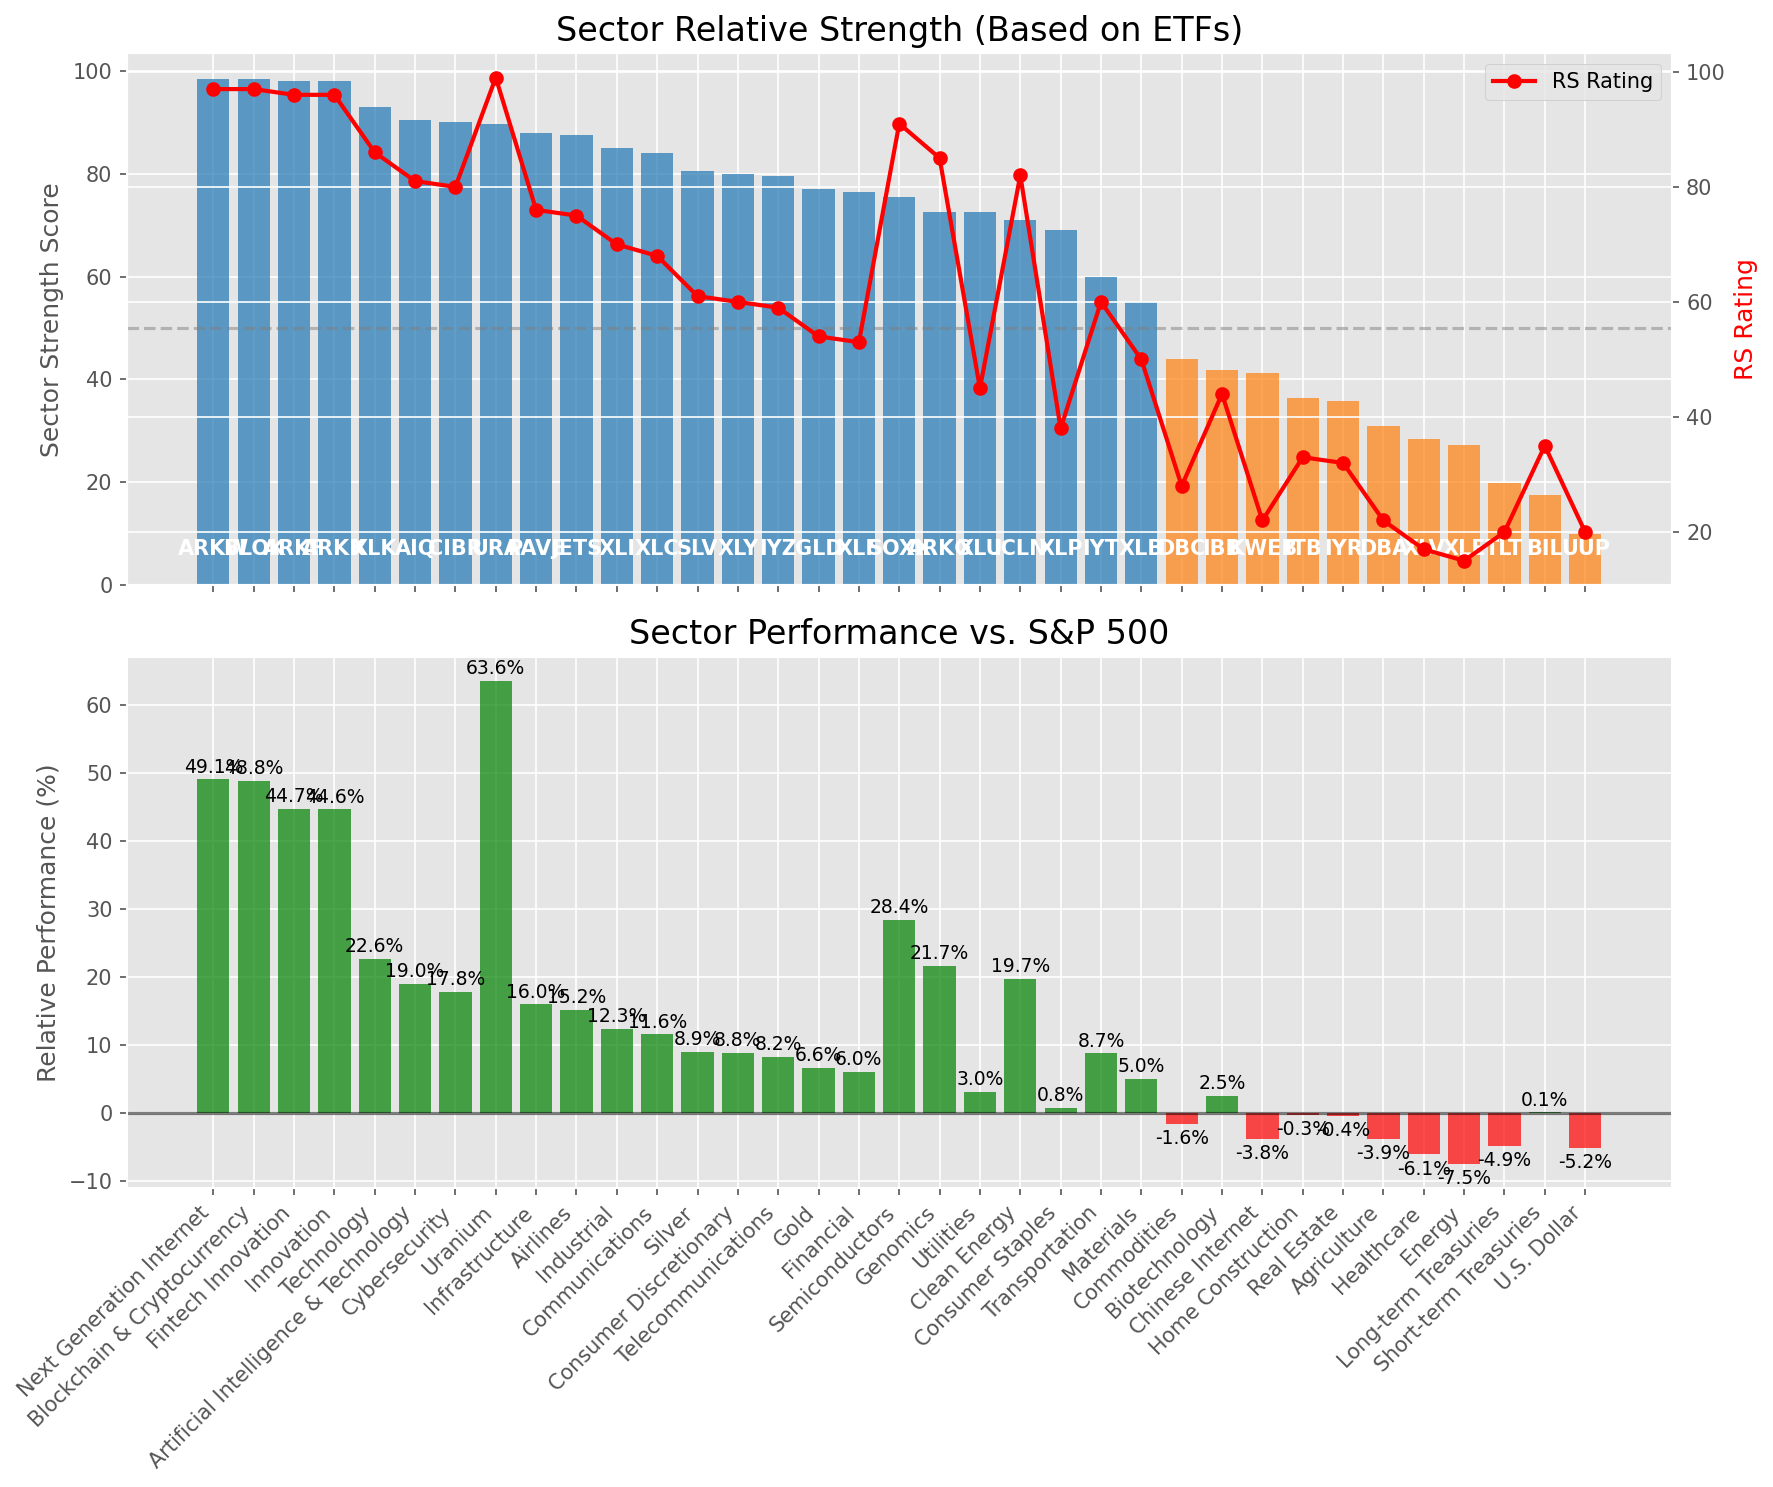
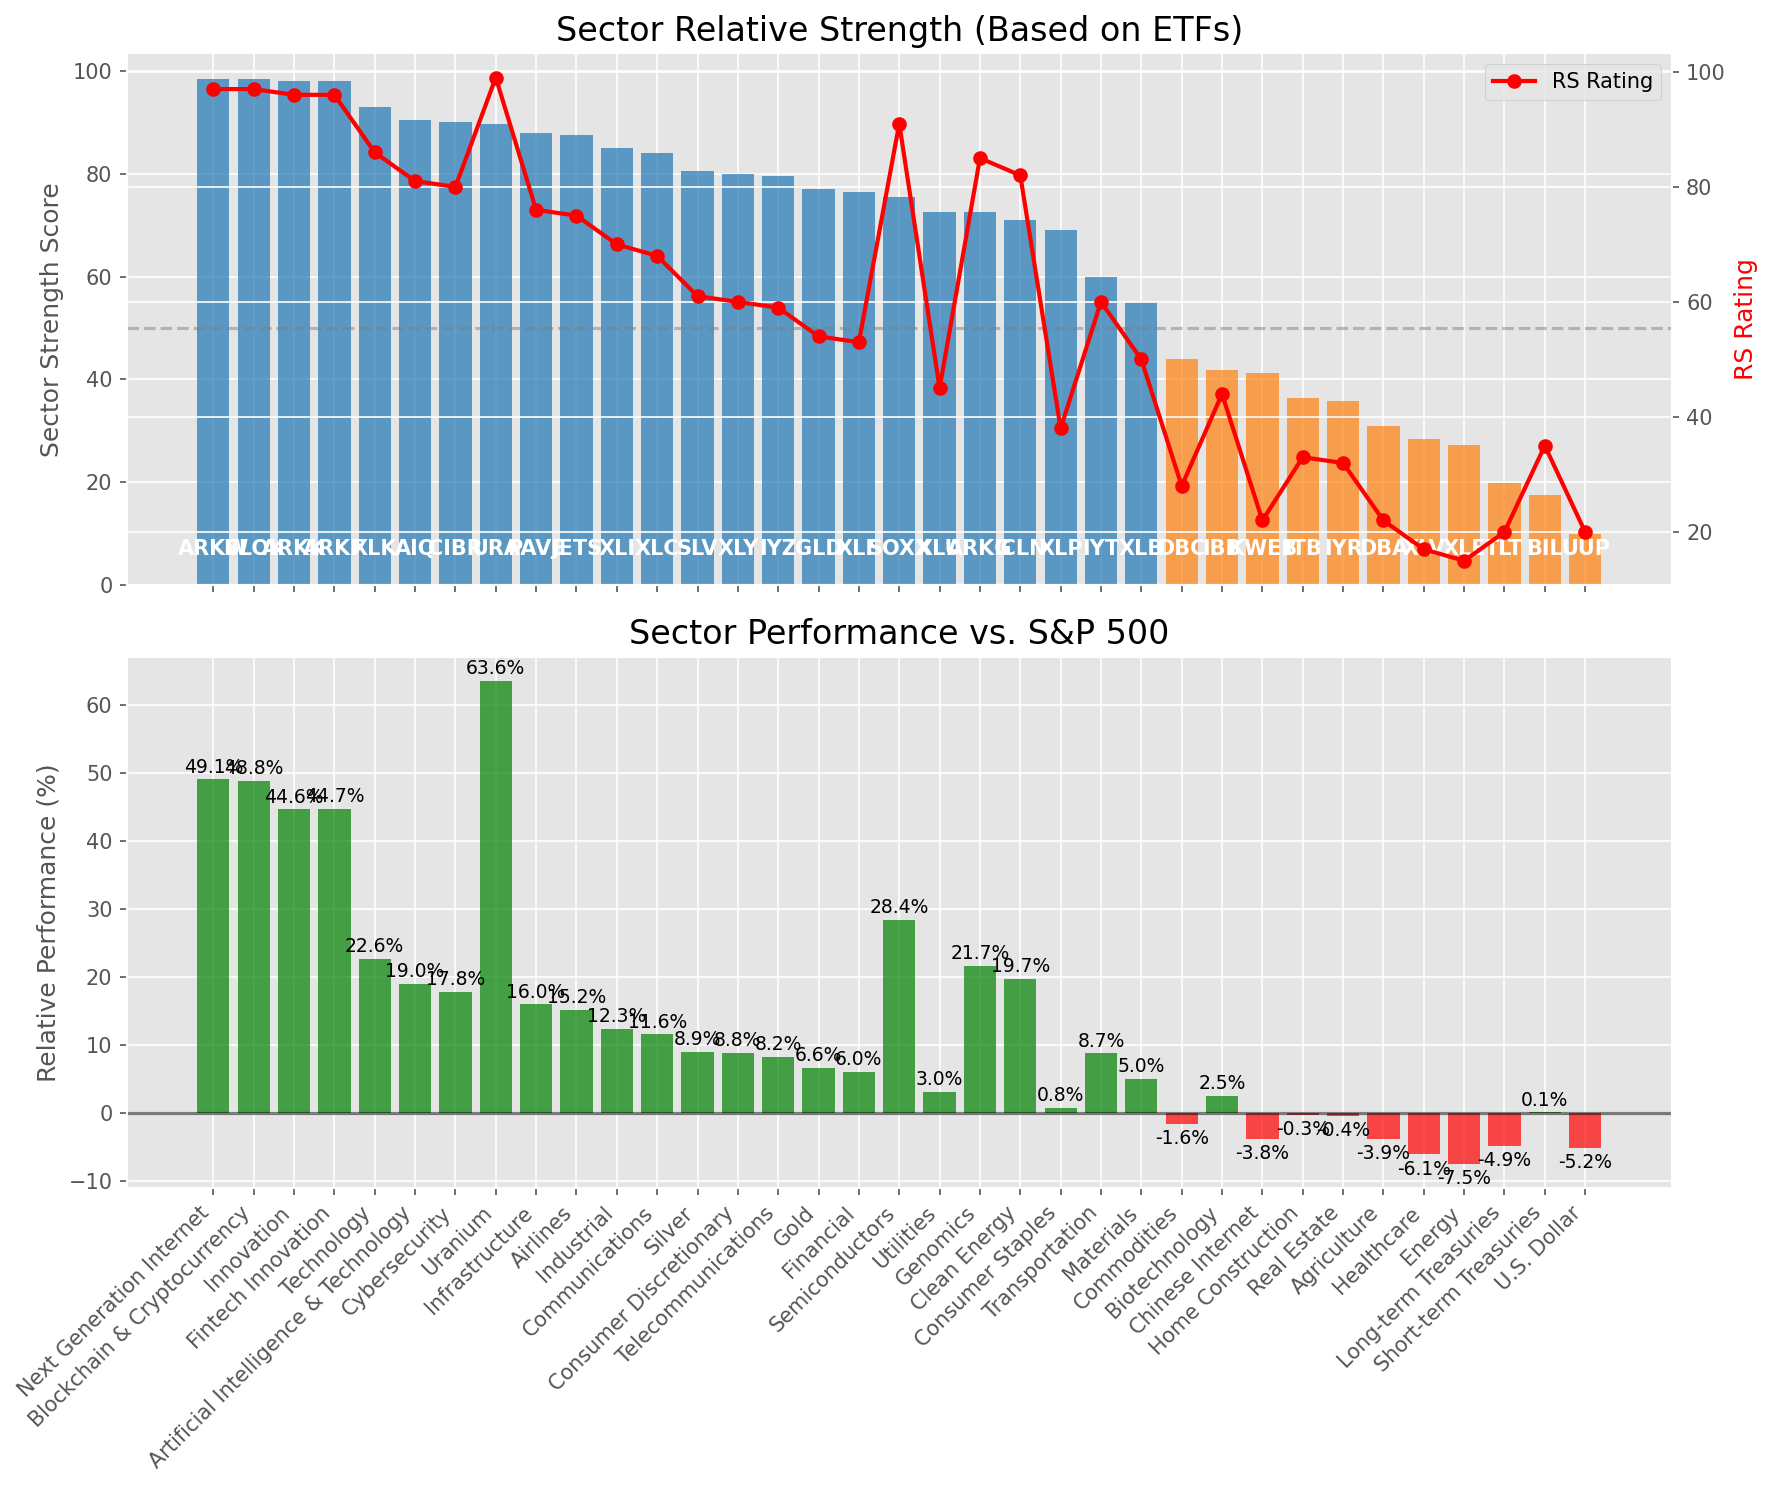
Add market report for 2025-07-06

diff --git a/oneil_relative_strength_report_2025-07-06.md b/oneil_relative_strength_report_2025-07-06.md
@@ -51,8 +51,8 @@ Based on William O'Neil's Relative Strength Methodology
 |-----|----------|-----------|-------------|--------------|-------|--------|
 | [ARKW](https://www.tradingview.com/chart/?symbol=ARKW) | 98.5 | 97.0 | 49.06% | 10d ✓, 50d ✓, 200d ✓ | ↗ | Next Generation Internet |
 | [BLOK](https://www.tradingview.com/chart/?symbol=BLOK) | 98.5 | 97.0 | 48.82% | 10d ✓, 50d ✓, 200d ✓ | ↗ | Blockchain & Cryptocurrency |
-| [ARKF](https://www.tradingview.com/chart/?symbol=ARKF) | 98.0 | 96.0 | 44.72% | 10d ✓, 50d ✓, 200d ✓ | ↗ | Fintech Innovation |
 | [ARKK](https://www.tradingview.com/chart/?symbol=ARKK) | 98.0 | 96.0 | 44.64% | 10d ✓, 50d ✓, 200d ✓ | ↗ | Innovation |
+| [ARKF](https://www.tradingview.com/chart/?symbol=ARKF) | 98.0 | 96.0 | 44.72% | 10d ✓, 50d ✓, 200d ✓ | ↗ | Fintech Innovation |
 | [XLK](https://www.tradingview.com/chart/?symbol=XLK) | 93.0 | 86.0 | 22.64% | 10d ✓, 50d ✓, 200d ✓ | ↗ | Technology |
 | [AIQ](https://www.tradingview.com/chart/?symbol=AIQ) | 90.5 | 81.0 | 18.95% | 10d ✓, 50d ✓, 200d ✓ | ↗ | Artificial Intelligence & Technology |
 | [CIBR](https://www.tradingview.com/chart/?symbol=CIBR) | 90.0 | 80.0 | 17.81% | 10d ✓, 50d ✓, 200d ✓ | ↗ | Cybersecurity |
@@ -67,8 +67,8 @@ Based on William O'Neil's Relative Strength Methodology
 | [GLD](https://www.tradingview.com/chart/?symbol=GLD) | 77.0 | 54.0 | 6.59% | 10d ✓, 50d ✓, 200d ✓ | ↗ | Gold |
 | [XLF](https://www.tradingview.com/chart/?symbol=XLF) | 76.5 | 53.0 | 6.04% | 10d ✓, 50d ✓, 200d ✓ | ↗ | Financial |
 | [SOXX](https://www.tradingview.com/chart/?symbol=SOXX) | 75.5 | 91.0 | 28.43% | 10d ✓, 50d ✓, 200d ✓ | ↘ | Semiconductors |
-| [ARKG](https://www.tradingview.com/chart/?symbol=ARKG) | 72.5 | 85.0 | 21.66% | 10d ✓, 50d ✓, 200d ✓ | ↘ | Genomics |
 | [XLU](https://www.tradingview.com/chart/?symbol=XLU) | 72.5 | 45.0 | 3.05% | 10d ✓, 50d ✓, 200d ✓ | ↗ | Utilities |
+| [ARKG](https://www.tradingview.com/chart/?symbol=ARKG) | 72.5 | 85.0 | 21.66% | 10d ✓, 50d ✓, 200d ✓ | ↘ | Genomics |
 | [ICLN](https://www.tradingview.com/chart/?symbol=ICLN) | 71.0 | 82.0 | 19.74% | 10d ✓, 50d ✓, 200d ✓ | ↘ | Clean Energy |
 | [XLP](https://www.tradingview.com/chart/?symbol=XLP) | 69.0 | 38.0 | 0.77% | 10d ✓, 50d ✓, 200d ✓ | ↗ | Consumer Staples |
 | [IYT](https://www.tradingview.com/chart/?symbol=IYT) | 60.0 | 60.0 | 8.74% | 10d ✓, 50d ✓, 200d ✓ | ↘ | Transportation |
@@ -98,7 +98,7 @@ This table shows the relative strength metrics for different market sectors base
 
 ### **Current Sector Leadership**
 
-The current market leadership is coming from the following sectors: **Next Generation Internet, Blockchain & Cryptocurrency, Fintech Innovation**.
+The current market leadership is coming from the following sectors: **Next Generation Internet, Blockchain & Cryptocurrency, Innovation**.
 
 The **Next Generation Internet** sector (represented by **ARKW**) is showing particularly strong relative strength with an RS rating of 97.0 and performance of 49.06% vs. the S&P 500. This sector is trading above its 10-day, 50-day, 200-day moving average(s). Investors should consider focusing on high RS stocks within these leading sectors for potential outperformance.
 
@@ -110,49 +110,49 @@ The following 76 stocks show exceptional relative strength:
 
 | RS Rating | Buy Score | Current Price | Chart | Name | Ticker |
 |-----------|-----------|---------------|-------|------|--------|
-| 100 | 100 | $159.26 | [Chart](https://www.tradingview.com/chart/?symbol=CLS) | Celestica, Inc. | CLS |
+| 100 | 100 | $149.20 | [Chart](https://www.tradingview.com/chart/?symbol=LMB) | Limbach Holdings, Inc Common Stock | LMB |
 | 100 | 100 | $182.16 | [Chart](https://www.tradingview.com/chart/?symbol=SEZL) | Sezzle Inc. Common Stock | SEZL |
 | 100 | 100 | $94.40 | [Chart](https://www.tradingview.com/chart/?symbol=HOOD) | Robinhood Markets, Inc. Class A Common Stock | HOOD |
+| 100 | 100 | $159.26 | [Chart](https://www.tradingview.com/chart/?symbol=CLS) | Celestica, Inc. | CLS |
 | 100 | 100 | $281.79 | [Chart](https://www.tradingview.com/chart/?symbol=DAVE) | Dave Inc. Class A Common Stock | DAVE |
-| 100 | 100 | $149.20 | [Chart](https://www.tradingview.com/chart/?symbol=LMB) | Limbach Holdings, Inc Common Stock | LMB |
 | 99 | 100 | $226.01 | [Chart](https://www.tradingview.com/chart/?symbol=JBL) | Jabil Inc. | JBL |
-| 99 | 100 | $191.27 | [Chart](https://www.tradingview.com/chart/?symbol=NET) | Cloudflare, Inc. Class A common stock, par value $0.001 per share | NET |
 | 99 | 100 | $103.59 | [Chart](https://www.tradingview.com/chart/?symbol=RBLX) | Roblox Corporation | RBLX |
+| 99 | 100 | $191.27 | [Chart](https://www.tradingview.com/chart/?symbol=NET) | Cloudflare, Inc. Class A common stock, par value $0.001 per share | NET |
 | 99 | 100 | $43.92 | [Chart](https://www.tradingview.com/chart/?symbol=FARO) | Faro Technologies Inc | FARO |
+| 98 | 100 | $75.96 | [Chart](https://www.tradingview.com/chart/?symbol=ODD) | ODDITY Tech Ltd. Class A Ordinary Shares | ODD |
+| 98 | 100 | $314.77 | [Chart](https://www.tradingview.com/chart/?symbol=ZS) | Zscaler, Inc. Common Stock | ZS |
 | 98 | 100 | $348.33 | [Chart](https://www.tradingview.com/chart/?symbol=CVNA) | Carvana Co. | CVNA |
 | 98 | 100 | $334.48 | [Chart](https://www.tradingview.com/chart/?symbol=RCL) | Royal Caribbean Group | RCL |
-| 98 | 100 | $75.96 | [Chart](https://www.tradingview.com/chart/?symbol=ODD) | ODDITY Tech Ltd. Class A Ordinary Shares | ODD |
 | 98 | 100 | $158.39 | [Chart](https://www.tradingview.com/chart/?symbol=NRG) | NRG Energy, Inc. | NRG |
-| 98 | 100 | $314.77 | [Chart](https://www.tradingview.com/chart/?symbol=ZS) | Zscaler, Inc. Common Stock | ZS |
 | 98 | 100 | $517.04 | [Chart](https://www.tradingview.com/chart/?symbol=GEV) | GE Vernova Inc. | GEV |
 | 97 | 100 | $279.58 | [Chart](https://www.tradingview.com/chart/?symbol=CRS) | Carpenter Technology Corp | CRS |
-| 96 | 100 | $44.66 | [Chart](https://www.tradingview.com/chart/?symbol=KTOS) | Kratos Defense & Security Solutions, Inc. | KTOS |
 | 96 | 100 | $50.16 | [Chart](https://www.tradingview.com/chart/?symbol=ARKF) | ARK Fintech Innovation ETF | ARKF |
 | 96 | 100 | $89.08 | [Chart](https://www.tradingview.com/chart/?symbol=RBRK) | Rubrik, Inc. | RBRK |
+| 96 | 100 | $44.66 | [Chart](https://www.tradingview.com/chart/?symbol=KTOS) | Kratos Defense & Security Solutions, Inc. | KTOS |
 | 96 | 100 | $795.48 | [Chart](https://www.tradingview.com/chart/?symbol=AXON) | Axon Enterprise, Inc. Common Stock | AXON |
+| 95 | 100 | $34.33 | [Chart](https://www.tradingview.com/chart/?symbol=APG) | APi Group Corporation | APG |
 | 95 | 100 | $1297.18 | [Chart](https://www.tradingview.com/chart/?symbol=NFLX) | NetFlix Inc | NFLX |
 | 95 | 100 | $21.63 | [Chart](https://www.tradingview.com/chart/?symbol=MAG) | MAG Silver Corp. | MAG |
 | 95 | 100 | $514.10 | [Chart](https://www.tradingview.com/chart/?symbol=CRWD) | CrowdStrike Holdings, Inc. Class A Common Stock | CRWD |
-| 95 | 100 | $34.33 | [Chart](https://www.tradingview.com/chart/?symbol=APG) | APi Group Corporation | APG |
-| 94 | 100 | $181.06 | [Chart](https://www.tradingview.com/chart/?symbol=HWM) | Howmet Aerospace Inc. | HWM |
 | 94 | 100 | $46.41 | [Chart](https://www.tradingview.com/chart/?symbol=DRS) | Leonardo DRS, Inc. Common Stock | DRS |
+| 94 | 100 | $181.06 | [Chart](https://www.tradingview.com/chart/?symbol=HWM) | Howmet Aerospace Inc. | HWM |
 | 94 | 100 | $38.87 | [Chart](https://www.tradingview.com/chart/?symbol=AS) | Amer Sports, Inc. | AS |
-| 93 | 100 | $52.89 | [Chart](https://www.tradingview.com/chart/?symbol=BBW) | Build-A-Bear Workshop, Inc. | BBW |
 | 93 | 100 | $73.57 | [Chart](https://www.tradingview.com/chart/?symbol=URBN) | Urban Outfitters Inc | URBN |
-| 93 | 100 | $252.34 | [Chart](https://www.tradingview.com/chart/?symbol=WWD) | Woodward, Inc. | WWD |
 | 93 | 100 | $57.98 | [Chart](https://www.tradingview.com/chart/?symbol=IBKR) | Interactive Brokers Group, Inc. Class A Common Stock | IBKR |
-| 92 | 100 | $43.41 | [Chart](https://www.tradingview.com/chart/?symbol=KD) | Kyndryl Holdings, Inc. | KD |
-| 92 | 100 | $102.34 | [Chart](https://www.tradingview.com/chart/?symbol=SANM) | Sanmina  Corp | SANM |
+| 93 | 100 | $252.34 | [Chart](https://www.tradingview.com/chart/?symbol=WWD) | Woodward, Inc. | WWD |
+| 93 | 100 | $52.89 | [Chart](https://www.tradingview.com/chart/?symbol=BBW) | Build-A-Bear Workshop, Inc. | BBW |
 | 92 | 100 | $50.13 | [Chart](https://www.tradingview.com/chart/?symbol=INOD) | Innodata Inc. | INOD |
-| 91 | 100 | $106.71 | [Chart](https://www.tradingview.com/chart/?symbol=JCI) | Johnson Controls International plc | JCI |
+| 92 | 100 | $102.34 | [Chart](https://www.tradingview.com/chart/?symbol=SANM) | Sanmina  Corp | SANM |
+| 92 | 100 | $43.41 | [Chart](https://www.tradingview.com/chart/?symbol=KD) | Kyndryl Holdings, Inc. | KD |
 | 91 | 100 | $17.82 | [Chart](https://www.tradingview.com/chart/?symbol=DAN) | Dana Incorporated | DAN |
 | 91 | 100 | $403.99 | [Chart](https://www.tradingview.com/chart/?symbol=MSTR) | MicroStrategy Inc | MSTR |
-| 90 | 100 | $25.80 | [Chart](https://www.tradingview.com/chart/?symbol=KAR) | OPENLANE, Inc | KAR |
-| 90 | 100 | $28.23 | [Chart](https://www.tradingview.com/chart/?symbol=SRAD) | Sportradar Group AG Class A Ordinary Shares | SRAD |
-| 90 | 100 | $43.99 | [Chart](https://www.tradingview.com/chart/?symbol=BBIO) | BridgeBio Pharma, Inc. Common Stock | BBIO |
+| 91 | 100 | $106.71 | [Chart](https://www.tradingview.com/chart/?symbol=JCI) | Johnson Controls International plc | JCI |
 | 90 | 100 | $65.70 | [Chart](https://www.tradingview.com/chart/?symbol=CAKE) | Cheesecake Factory (The) | CAKE |
-| 89 | 100 | $30.93 | [Chart](https://www.tradingview.com/chart/?symbol=HODL) | VanEck Bitcoin ETF | HODL |
+| 90 | 100 | $28.23 | [Chart](https://www.tradingview.com/chart/?symbol=SRAD) | Sportradar Group AG Class A Ordinary Shares | SRAD |
+| 90 | 100 | $25.80 | [Chart](https://www.tradingview.com/chart/?symbol=KAR) | OPENLANE, Inc | KAR |
+| 90 | 100 | $43.99 | [Chart](https://www.tradingview.com/chart/?symbol=BBIO) | BridgeBio Pharma, Inc. Common Stock | BBIO |
 | 89 | 100 | $238.79 | [Chart](https://www.tradingview.com/chart/?symbol=DASH) | DoorDash, Inc. Class A Common Stock | DASH |
+| 89 | 100 | $30.93 | [Chart](https://www.tradingview.com/chart/?symbol=HODL) | VanEck Bitcoin ETF | HODL |
 | 88 | 100 | $59.10 | [Chart](https://www.tradingview.com/chart/?symbol=SHLD) | Global X Defense Tech ETF | SHLD |
 | 87 | 100 | $46.15 | [Chart](https://www.tradingview.com/chart/?symbol=EXEL) | Exelixis Inc | EXEL |
 | 89 | 99 | $62.19 | [Chart](https://www.tradingview.com/chart/?symbol=IBIT) | iShares Bitcoin Trust ETF | IBIT |
@@ -165,25 +165,25 @@ The following 76 stocks show exceptional relative strength:
 | 87 | 96 | $46.71 | [Chart](https://www.tradingview.com/chart/?symbol=AU) | AngloGold Ashanti plc | AU |
 | 85 | 96 | $5716.80 | [Chart](https://www.tradingview.com/chart/?symbol=BKNG) | Booking Holdings Inc. Common Stock | BKNG |
 | 84 | 96 | $90.20 | [Chart](https://www.tradingview.com/chart/?symbol=TPR) | Tapestry, Inc. Common Stock | TPR |
-| 83 | 96 | $29.25 | [Chart](https://www.tradingview.com/chart/?symbol=DB) | Deutsche Bank Aktiengesellschaft | DB |
 | 83 | 96 | $29.65 | [Chart](https://www.tradingview.com/chart/?symbol=CAE) | CAE INC | CAE |
 | 83 | 96 | $37.07 | [Chart](https://www.tradingview.com/chart/?symbol=AHR) | American Healthcare REIT, Inc. | AHR |
+| 83 | 96 | $29.25 | [Chart](https://www.tradingview.com/chart/?symbol=DB) | Deutsche Bank Aktiengesellschaft | DB |
 | 85 | 95 | $252.69 | [Chart](https://www.tradingview.com/chart/?symbol=WTS) | Watts Water Technologies, Inc. Class A | WTS |
-| 84 | 95 | $220.91 | [Chart](https://www.tradingview.com/chart/?symbol=COF) | Capital One Financial | COF |
 | 84 | 95 | $186.86 | [Chart](https://www.tradingview.com/chart/?symbol=ITA) | iShares U.S. Aerospace & Defense ETF | ITA |
 | 84 | 95 | $77.12 | [Chart](https://www.tradingview.com/chart/?symbol=CTVA) | Corteva, Inc. Common Stock | CTVA |
+| 84 | 95 | $220.91 | [Chart](https://www.tradingview.com/chart/?symbol=COF) | Capital One Financial | COF |
 | 83 | 95 | $48.38 | [Chart](https://www.tradingview.com/chart/?symbol=BTI) | British American Tobacco p.l.c. American Depositary Shares, American Depositary Shares, each representing one Ordinary Share | BTI |
 | 81 | 95 | $93.81 | [Chart](https://www.tradingview.com/chart/?symbol=SNEX) | StoneX Group Inc. Common Stock | SNEX |
 | 83 | 94 | $296.00 | [Chart](https://www.tradingview.com/chart/?symbol=JPM) | JPMorgan Chase & Co. | JPM |
 | 81 | 94 | $164.93 | [Chart](https://www.tradingview.com/chart/?symbol=CAH) | Cardinal Health, Inc. | CAH |
-| 83 | 93 | $60.14 | [Chart](https://www.tradingview.com/chart/?symbol=NTR) | Nutrien Ltd. Common Shares | NTR |
 | 83 | 93 | $93.10 | [Chart](https://www.tradingview.com/chart/?symbol=SEIC) | SEI Investments Co | SEIC |
+| 83 | 93 | $60.14 | [Chart](https://www.tradingview.com/chart/?symbol=NTR) | Nutrien Ltd. Common Shares | NTR |
 | 83 | 93 | $120.27 | [Chart](https://www.tradingview.com/chart/?symbol=TWLO) | Twilio Inc. | TWLO |
 | 80 | 93 | $182.77 | [Chart](https://www.tradingview.com/chart/?symbol=EAT) | Brinker International, Inc. | EAT |
 | 82 | 92 | $112.51 | [Chart](https://www.tradingview.com/chart/?symbol=SPMO) | Invesco S&P 500 Momentum ETF | SPMO |
 | 80 | 92 | $75.93 | [Chart](https://www.tradingview.com/chart/?symbol=CIBR) | First Trust Exchange-Traded Fund II First Trust NASDAQ Cybersecurity ETF | CIBR |
-| 81 | 91 | $141.76 | [Chart](https://www.tradingview.com/chart/?symbol=PPA) | Invesco Aerospace & Defense ETF | PPA |
 | 81 | 91 | $269.02 | [Chart](https://www.tradingview.com/chart/?symbol=FDN) | First Trust Dow Jones Internet Index Fund ETF | FDN |
+| 81 | 91 | $141.76 | [Chart](https://www.tradingview.com/chart/?symbol=PPA) | Invesco Aerospace & Defense ETF | PPA |
 | 80 | 91 | $227.25 | [Chart](https://www.tradingview.com/chart/?symbol=BAP) | Credicorp LTD | BAP |
 | 80 | 90 | $29.41 | [Chart](https://www.tradingview.com/chart/?symbol=NTGR) | NETGEAR, Inc. | NTGR |
 
@@ -196,16 +196,16 @@ The following 43 stocks show deteriorating relative strength:
 
 | RS Rating | Sell Score | Current Price | Chart | Name | Ticker |
 |-----------|------------|---------------|-------|------|--------|
-| 1 | 100 | $10.09 | [Chart](https://www.tradingview.com/chart/?symbol=HIBS) | Direxion Daily S&P 500 High Beta Bear 3X Shares | HIBS |
 | 1 | 100 | $25.61 | [Chart](https://www.tradingview.com/chart/?symbol=TECS) | Direxion Daily Technology Bear 3x Shares | TECS |
 | 1 | 100 | $14.25 | [Chart](https://www.tradingview.com/chart/?symbol=NVDS) | Investment Managers Series Trust II Tradr 1.5X Short NVDA Daily ETF | NVDS |
+| 1 | 100 | $10.09 | [Chart](https://www.tradingview.com/chart/?symbol=HIBS) | Direxion Daily S&P 500 High Beta Bear 3X Shares | HIBS |
+| 2 | 100 | $10.20 | [Chart](https://www.tradingview.com/chart/?symbol=HPK) | HighPeak Energy, Inc. Common Stock | HPK |
 | 2 | 100 | $24.93 | [Chart](https://www.tradingview.com/chart/?symbol=QID) | ProShares UltraShort QQQ | QID |
 | 2 | 100 | $12.08 | [Chart](https://www.tradingview.com/chart/?symbol=LBRT) | Liberty Energy Inc. | LBRT |
 | 2 | 100 | $24.92 | [Chart](https://www.tradingview.com/chart/?symbol=CRTO) | Criteo S.A. | CRTO |
-| 2 | 100 | $10.20 | [Chart](https://www.tradingview.com/chart/?symbol=HPK) | HighPeak Energy, Inc. Common Stock | HPK |
 | 2 | 100 | $43.53 | [Chart](https://www.tradingview.com/chart/?symbol=LINE) | Lineage, Inc. Common Stock | LINE |
-| 3 | 100 | $39.52 | [Chart](https://www.tradingview.com/chart/?symbol=SDOW) | ProShares UltraPro Short Dow 30 | SDOW |
 | 3 | 100 | $19.33 | [Chart](https://www.tradingview.com/chart/?symbol=BITI) | ProShares Short Bitcoin ETF | BITI |
+| 3 | 100 | $39.52 | [Chart](https://www.tradingview.com/chart/?symbol=SDOW) | ProShares UltraPro Short Dow 30 | SDOW |
 | 4 | 100 | $35.25 | [Chart](https://www.tradingview.com/chart/?symbol=SARK) | Investment Managers Series Trust II Tradr 1X Short Innovation Daily ETF | SARK |
 | 5 | 100 | $24.78 | [Chart](https://www.tradingview.com/chart/?symbol=ZSL) | ProShares UltraShort Silver | ZSL |
 | 5 | 100 | $80.42 | [Chart](https://www.tradingview.com/chart/?symbol=LNTH) | Lantheus Holdings, Inc | LNTH |
